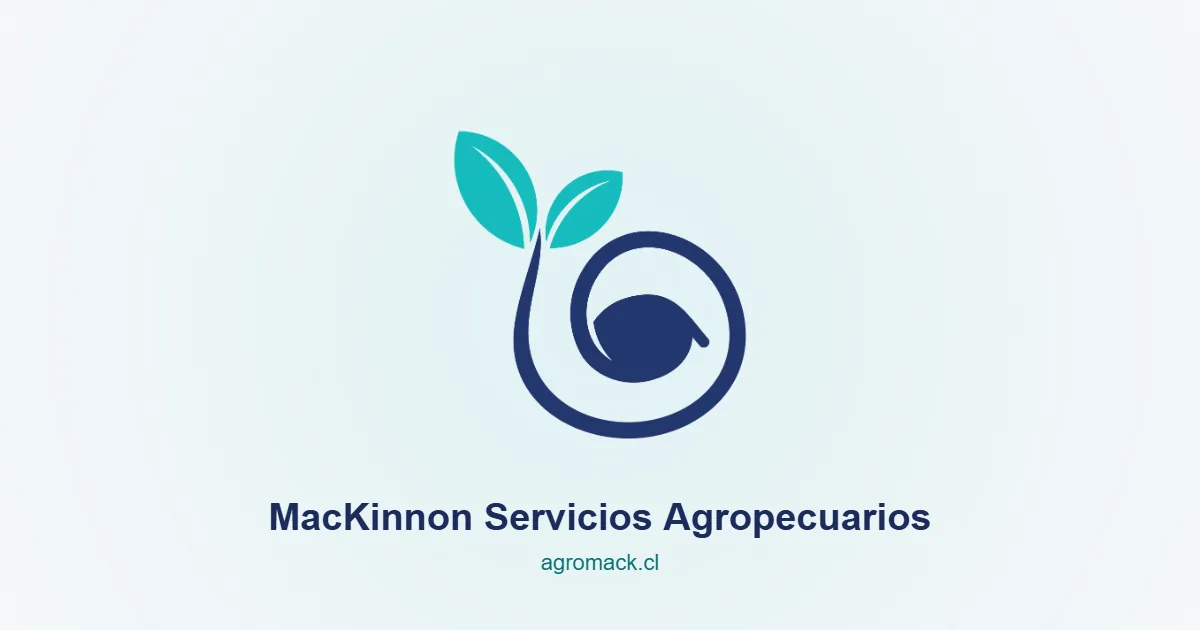
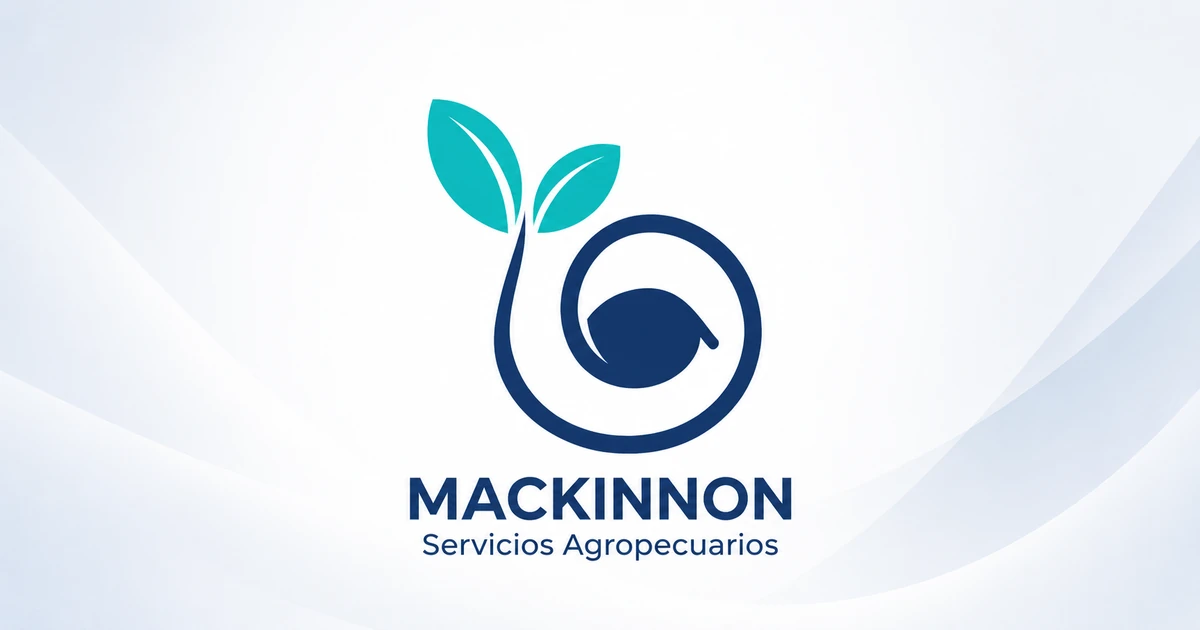
cambio imagen OG

diff --git a/contacto.html b/contacto.html
@@ -18,7 +18,7 @@
 <meta property="og:type" content="website">
 <meta property="og:title" content="Contacto">
 <meta property="og:description" content="Contacto para diagnóstico agrícola, inocuidad, producción, capacitación o IMACIMUS. Patrick y Andrew MacKinnon.">
-<meta property="og:image" content="https://agromack.cl/img/og-share.webp">
+<meta property="og:image" content="https://agromack.cl/img/og-share.jpg">
 <meta property="og:image:width" content="1200">
 <meta property="og:image:height" content="630">
 <meta property="og:image:alt" content="MacKinnon Servicios Agropecuarios">
@@ -47,6 +47,14 @@
   }
 }
 </style>
+
+<style>
+.contact-hero-clean::before{display:none !important; background:none !important; content:none !important;}
+.contact-hero-clean .container{position:relative; z-index:1;}
+@media (max-width: 768px){
+  .contact-hero-clean{background-position:68% center !important;}
+}
+</style>
 </head>
 <body><nav class="nav" id="mainNav"><div class="nav-inner">
 <a href="index.html" class="brand" aria-label="MacKinnon Servicios Agropecuarios"><img src="img/logo.webp" alt="MacKinnon" class="brand-logo" decoding="async"></a>
@@ -69,7 +77,7 @@
 <a href="capacitaciones.html" onclick="closeMob()">Capacitaciones</a>
 <a href="contacto.html" onclick="closeMob()">Contacto</a>
 </div>
-<section class="mini-hero dark" style="padding:140px 0 40px; background-image:linear-gradient(90deg, rgba(4,20,48,.92) 0%, rgba(9,41,82,.88) 28%, rgba(10,57,98,.62) 54%, rgba(9,41,82,.18) 100%), url('img/contacto-hero.webp'); background-size:cover; background-position:center center; background-repeat:no-repeat;">
+<section class="mini-hero dark contact-hero-clean" style="padding:140px 0 40px; background-image:linear-gradient(90deg, rgba(4,20,48,.96) 0%, rgba(9,41,82,.90) 30%, rgba(10,57,98,.64) 56%, rgba(9,41,82,.22) 100%), url('img/contacto-hero.webp'); background-size:cover; background-position:center center; background-repeat:no-repeat;">
   <div class="container" style="position:relative; z-index:1;">
     <div style="max-width:720px;">
       <div class="breadcrumb"><a href="index.html">Inicio</a><span class="sep">/</span><span>Contacto</span></div>

diff --git a/index.html b/index.html
@@ -26,7 +26,7 @@
   "@id": "https://agromack.cl/#organization",
   "name": "MacKinnon Servicios Agropecuarios SpA",
   "url": "https://agromack.cl/",
-  "image": "https://agromack.cl/img/og-share.webp",
+  "image": "https://agromack.cl/img/og-share.jpg",
   "areaServed": "Chile",
   "description": "Asesoría técnica agropecuaria en riego, agricultura de precisión, inocuidad alimentaria, producción pecuaria, pesquera y capacitaciones aplicadas en terreno.",
   "sameAs": [
@@ -91,8 +91,8 @@
   <div class="hero-inner">
     <div>
       <div class="hero-label"><span class="hero-dot"></span>MacKinnon Servicios Agropecuarios · Chile</div>
-      <h1>Asesoría técnica para producción animal y agrícola, riego e inocuidad alimentaria.</h1>
-      <p class="hero-sub">Diagnóstico, implementación y seguimiento en terreno para empresas agrícolas, granjas yplantas de proceso.</p>
+      <h1>Asesoría técnica para producción, riego e inocuidad.</h1>
+      <p class="hero-sub">Diagnóstico, implementación y seguimiento en terreno para empresas agrícolas, granjas, plantas de alimentos e instituciones.</p>
       <div class="hero-btns">
         <a href="contacto.html" class="btn-main">Solicitar diagnóstico</a>
         <a href="#problemas" class="btn-outline">

diff --git a/imacimus.html b/imacimus.html
@@ -18,13 +18,13 @@
 <meta property="og:type" content="website">
 <meta property="og:title" content="IMACIMUS 10 — Análisis nutricional en terreno — MacKinnon Servicios Agropecuarios">
 <meta property="og:description" content="Laboratorio de nutrición vegetal portátil. Mide hasta 10 iones en minutos directamente en el huerto. Patrick MacKinnon, distribuidor oficial en Chile.">
-<meta property="og:image" content="https://agromack.cl/img/og-share.webp">
+<meta property="og:image" content="https://agromack.cl/img/og-share.jpg">
 <meta property="og:image:width" content="1200">
 <meta property="og:image:height" content="630">
 <meta property="og:image:alt" content="MacKinnon Servicios Agropecuarios">
 <meta property="og:url" content="https://agromack.cl">
 <meta name="twitter:card" content="summary_large_image">
-<meta name="twitter:image" content="https://agromack.cl/img/og-share.webp">
+<meta name="twitter:image" content="https://agromack.cl/img/og-share.jpg">
 <link rel="preconnect" href="https://fonts.googleapis.com">
 <link rel="preconnect" href="https://fonts.gstatic.com" crossorigin>
 <link href="https://fonts.googleapis.com/css2?family=Hanken+Grotesk:ital,wght@0,400;0,500;0,600;0,700;0,800;0,900;1,400&display=swap" rel="stylesheet">

diff --git a/patrick.html b/patrick.html
@@ -9,13 +9,13 @@
 <meta property="og:type" content="website">
 <meta property="og:title" content="Riego, fertirriego y diagnóstico agrícola — MacKinnon Servicios Agropecuarios">
 <meta property="og:description" content="Asesoría agrícola en riego, fertirriego, sensores y análisis IMACIMUS 10. Ing. Agrónomo, Mg. Trabajo en terreno en la zona central de Chile.">
-<meta property="og:image" content="https://agromack.cl/img/og-share.webp">
+<meta property="og:image" content="https://agromack.cl/img/og-share.jpg">
 <meta property="og:image:width" content="1200">
 <meta property="og:image:height" content="630">
 <meta property="og:image:alt" content="MacKinnon Servicios Agropecuarios">
 <meta property="og:url" content="https://agromack.cl">
 <meta name="twitter:card" content="summary_large_image">
-<meta name="twitter:image" content="https://agromack.cl/img/og-share.webp">
+<meta name="twitter:image" content="https://agromack.cl/img/og-share.jpg">
 <link rel="preconnect" href="https://fonts.googleapis.com">
 <link rel="preconnect" href="https://fonts.gstatic.com" crossorigin>
 <link href="https://fonts.googleapis.com/css2?family=Hanken+Grotesk:ital,wght@0,400;0,500;0,600;0,700;0,800;0,900;1,400&display=swap" rel="stylesheet">

diff --git a/andrew.html b/andrew.html
@@ -18,13 +18,13 @@
 <meta property="og:type" content="website">
 <meta property="og:title" content="Inocuidad, HACCP y producción pecuaria — MacKinnon Servicios Agropecuarios">
 <meta property="og:description" content="Asesoría en inocuidad alimentaria, HACCP, auditorías APL y BPM, y producción avícola. Méd. Veterinario y docente universitario.">
-<meta property="og:image" content="https://agromack.cl/img/og-share.webp">
+<meta property="og:image" content="https://agromack.cl/img/og-share.jpg">
 <meta property="og:image:width" content="1200">
 <meta property="og:image:height" content="630">
 <meta property="og:image:alt" content="MacKinnon Servicios Agropecuarios">
 <meta property="og:url" content="https://agromack.cl">
 <meta name="twitter:card" content="summary_large_image">
-<meta name="twitter:image" content="https://agromack.cl/img/og-share.webp">
+<meta name="twitter:image" content="https://agromack.cl/img/og-share.jpg">
 <link rel="preconnect" href="https://fonts.googleapis.com">
 <link rel="preconnect" href="https://fonts.gstatic.com" crossorigin>
 <link href="https://fonts.googleapis.com/css2?family=Hanken+Grotesk:ital,wght@0,400;0,500;0,600;0,700;0,800;0,900;1,400&display=swap" rel="stylesheet">

diff --git a/capacitaciones.html b/capacitaciones.html
@@ -18,7 +18,7 @@
 <meta property="og:type" content="website">
 <meta property="og:title" content="Capacitaciones técnicas — OTEC e instituciones">
 <meta property="og:description" content="Charlas, talleres y cursos en riego, fertirriego, inocuidad alimentaria, HACCP y producción avícola. A medida para equipos, OTEC e instituciones.">
-<meta property="og:image" content="https://agromack.cl/img/og-share.webp">
+<meta property="og:image" content="https://agromack.cl/img/og-share.jpg">
 <meta property="og:image:width" content="1200">
 <meta property="og:image:height" content="630">
 <meta property="og:image:alt" content="MacKinnon Servicios Agropecuarios">

diff --git a/politica-calidad.html b/politica-calidad.html
@@ -9,7 +9,7 @@
 <meta property="og:type" content="website">
 <meta property="og:title" content="Política de Calidad">
 <meta property="og:description" content="Política de Calidad de MacKinnon Servicios Agropecuarios SpA. Asesoría técnica especializada en riego, fertirriego y nutrición vegetal.">
-<meta property="og:image" content="https://agromack.cl/img/og-share.webp">
+<meta property="og:image" content="https://agromack.cl/img/og-share.jpg">
 <meta property="og:image:width" content="1200">
 <meta property="og:image:height" content="630">
 <meta property="og:image:alt" content="MacKinnon Servicios Agropecuarios">

diff --git a/politica-privacidad.html b/politica-privacidad.html
@@ -9,7 +9,7 @@
 <meta property="og:type" content="website">
 <meta property="og:title" content="Política de Privacidad">
 <meta property="og:description" content="Política de Privacidad de MacKinnon Servicios Agropecuarios SpA. Cómo recopilamos, usamos y protegemos tus datos personales.">
-<meta property="og:image" content="https://agromack.cl/img/og-share.webp">
+<meta property="og:image" content="https://agromack.cl/img/og-share.jpg">
 <meta property="og:image:width" content="1200">
 <meta property="og:image:height" content="630">
 <meta property="og:image:alt" content="MacKinnon Servicios Agropecuarios">

diff --git a/404.html b/404.html
@@ -9,7 +9,7 @@
 <meta property="og:type" content="website">
 <meta property="og:title" content="Página no encontrada">
 <meta property="og:description" content="404 — Esta página no existe.">
-<meta property="og:image" content="img/walnut-leaves.webp">
+<meta property="og:image" content="https://agromack.cl/img/og-share.jpg">
 <meta property="og:url" content="https://agromack.cl">
 <link rel="preconnect" href="https://fonts.googleapis.com">
 <link rel="preconnect" href="https://fonts.gstatic.com" crossorigin>
